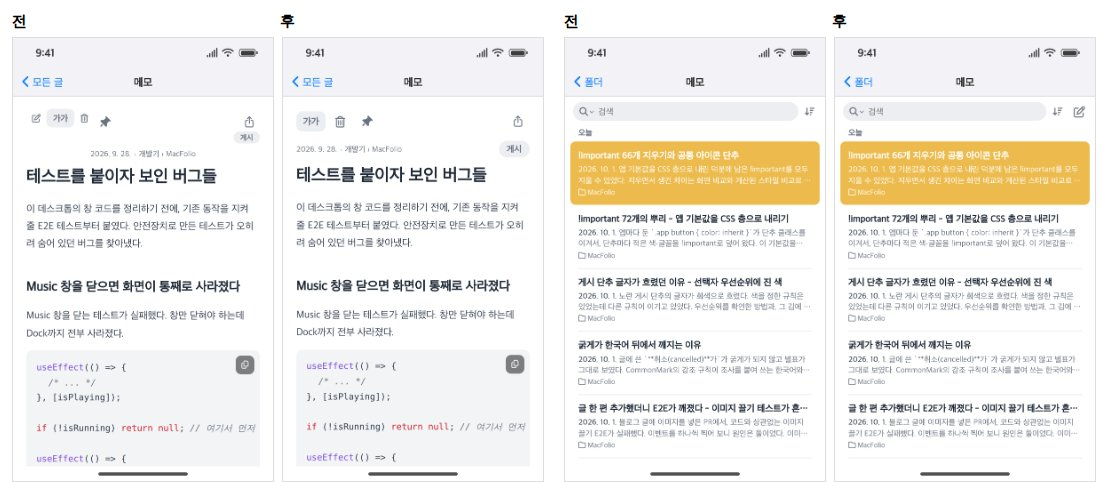
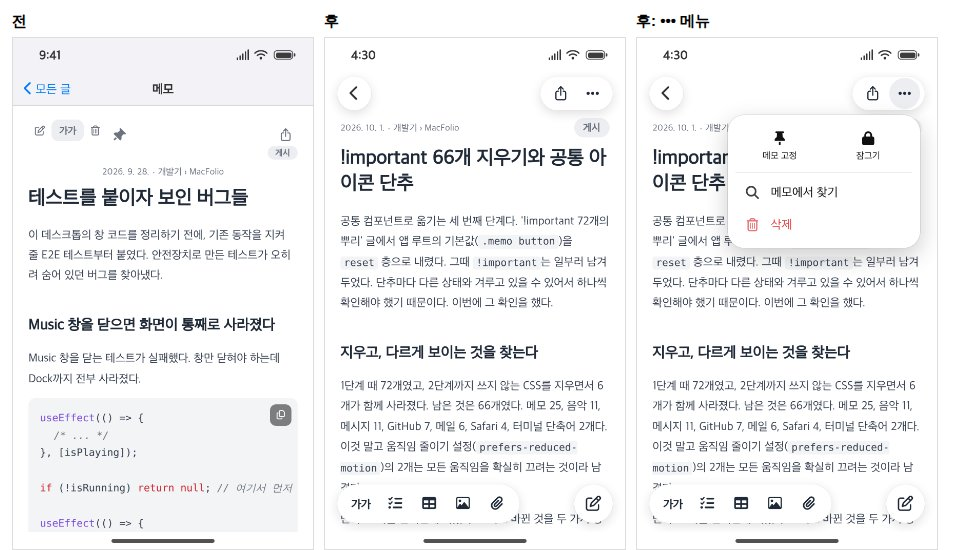
docs(memo): 태그·휴대폰 메모 글 고치기

diff --git a/apps/react/src/apps/memo/content/memo-mobile.md b/apps/react/src/apps/memo/content/memo-mobile.md
@@ -1,32 +1,35 @@
 ---
-title: 휴대폰의 메모 다듬기 - 도구 줄 맞추기와 좁은 표
+title: 휴대폰의 메모 다듬기 - iOS 메모처럼 떠 있는 단추와 좁은 표
 date: 2026-10-01
 category: 개발기/MacFolio
-summary: 휴대폰에서 메모를 열어 보니 본문 위 도구가 두 줄로 흩어져 있었다. 단추 크기와 줄을 맞추고, 글·폴더를 만드는 단추를 목록과 폴더 화면 위로 옮겼다. 좁은 화면의 표는 낱말 가운데서 줄을 바꾸지 않고 옆으로 밀리게 했다.
+summary: 휴대폰에서 메모 본문의 도구가 두 줄로 흩어져 있었다. iOS 메모처럼 제목 막대를 걷고 뒤로 가기·공유·더 보기는 위에, 글자 꾸밈 도구는 아래에 띄웠다. 좁은 화면의 표는 낱말 가운데서 줄을 바꾸지 않고 옆으로 밀리게 했다.
 ---
 
 메모 앱은 넓은 창을 기준으로 만들고, 좁아지면 한 칸씩 넘기는 화면(폴더 → 목록 → 본문)으로 바뀐다. 데스크톱에서 창을 줄여 가며 확인했는데, 휴대폰에서 관리자로 열어 보니 어색한 곳이 몇 군데 있었다.
 
-![도구 자리 전후](./images/memo-mobile-tools.jpg '왼쪽 둘: 본문 위 도구 줄 / 오른쪽 둘: 목록 위 새 메모')
+![본문 전후](./images/memo-mobile-tools.jpg '전: 제목 막대 아래 두 줄로 흩어진 도구 / 후: 떠 있는 단추, ••• 메뉴')
 
-## 본문 위 도구가 두 줄이었다
+## 본문은 iOS 메모처럼
 
-본문 위에는 새 메모, 서식(가가), 삭제, 고정, 공유가 있다. 고정과 공유에만 `font-size: 17px`과 위 여백이 붙어 있어서, 같은 줄인데 아이콘 크기와 높이가 제각각이었다. 게시 단추는 편집기 쪽의 날짜 줄에 들어 있는데, 좁은 편집기에서는 날짜 위의 따로 한 줄로 올라가 공유 아이콘 바로 밑에 혼자 떠 있었다.
+전에는 휴대폰 셸의 제목 막대("< 모든 글 | 메모") 아래에 새 메모, 서식(가가), 삭제, 고정, 공유가 한 줄로 있었다. 고정과 공유만 크기와 위 여백이 달라 들쭉날쭉했고, 게시 단추는 공유 아이콘 밑에 혼자 떠 있었다. 처음에는 단추 크기와 줄만 맞췄는데, 실제 iOS 메모를 옆에 두고 보니 구조가 달랐다. iOS 메모의 본문에는 제목 막대가 없다.
 
-- 도구 줄의 단추는 모두 같은 크기로 (36×34, 아이콘 17px). 서식, 삭제, 고정은 왼쪽, 공유는 오른쪽 끝
-- 휴대폰에서는 날짜·폴더를 왼쪽에, 저장 상태와 게시를 같은 줄 오른쪽에 둔다. 게시 단추는 손가락으로 누를 만하게 키웠다
+- **왼쪽 위**: 뒤로 가기 동그란 단추 하나
+- **오른쪽 위**: 공유와 •••를 담은 알약
+- **••• 메뉴**: 맨 위에 아이콘 줄(메모 고정, 잠그기), 그 아래 메모에서 찾기와 빨간 삭제
+- **아래 왼쪽**: 글자 꾸밈 알약 (가가, 체크리스트, 표, 이미지, 첨부)
+- **아래 오른쪽**: 새로 쓰기 동그란 단추
 
-같은 줄에 있는지는 E2E에서 단추들의 세로 가운데를 재서 확인한다. 서식 단추만 높이가 달라서(30px) 위쪽 끝이 아니라 가운데를 비교했다.
+제목 막대는 모든 앱이 함께 쓰는 휴대폰 셸의 것이라, 앱이 "이 화면에서는 막대를 띄워 달라"고 알리는 값(`floating`)을 하나 더했다. 앱이 뒤로 가기 글자를 바꿀 때 쓰던 `MobileNavigation`에 같이 넘긴다. 셸은 막대를 본문 위에 겹치고(`position: absolute`), 배경을 비우고, 뒤로 가기만 동그랗게 그린다. 뒤로 가기 글자("모든 글")는 화면 읽기 프로그램에만 남긴다.
 
-```ts
-const middles = await bar.locator('.ui-icon-button:visible').evaluateAll((buttons) =>
-	buttons.map((button) => {
-		const box = button.getBoundingClientRect();
-		return Math.round(box.top + box.height / 2);
-	})
-);
-expect(new Set(middles).size).toBe(1);
+```tsx
+<MobileNavigation backLabel={categoryName} onBack={() => setPane('list')} floating />
 ```
+
+••• 메뉴의 맨 위 아이콘 줄은 공용 메뉴(`Menu`)에 `{ row: [...] }` 항목을 더해서 만들었다. 데스크톱 메뉴도 같은 부품이라, 휴대폰에서는 `touch` 모양만 덧붙여 글자와 여백을 키운다.
+
+아래 알약의 가가를 누르면 서식 창이 단추 아래로 열려서 화면 밖으로 나갔다. 떠 있는 창을 단추 아래에 두는 함수(`placeBelow`)가 가로로만 화면 안으로 당겼기 때문이다. 아래로 넘치는데 위에 자리가 있으면 단추 위에 두게 고쳤다.
+
+처음에는 "휴대폰인가"를 셸이 내려 주는 Context로 알아내려 했는데, 단추가 하나도 그려지지 않았다. Context는 Provider의 **자식**에만 닿는다. 메모 컴포넌트는 창(`AppWindow`)을 그리는 쪽이라 Provider 바깥에 있다. 화면 폭으로 정하는 기존 훅(`useIsMobile`)을 썼다.
 
 ## 새 메모와 새로운 폴더의 자리
 

diff --git a/apps/react/src/apps/memo/content/memo-tags.md b/apps/react/src/apps/memo/content/memo-tags.md
@@ -7,7 +7,7 @@ summary: macOS 메모처럼 본문 아무 데나 #태그를 쓰면 태그가 되
 
 폴더는 글 하나가 한 곳에만 들어간다. 'CSS'와 '리팩터링'에 모두 걸치는 글은 폴더로는 묶을 수 없다. macOS 메모는 이럴 때 태그를 쓴다. 본문 아무 데나 `#태그`를 쓰면 그것이 태그가 되고, 사이드바 아래에 태그 묶음이 생긴다.
 
-![태그로 보기](./images/memo-tags.jpg '사이드바 아래의 태그 묶음. 누르면 그 태그의 글만, 본문의 태그도 누를 수 있다')
+![태그로 보기](./images/memo-tags.jpg '사이드바 아래의 태그 묶음. 채운 칩은 포함, 테두리·취소선은 제외. 둘 이상 고르면 모두/일부 포함을 고른다')
 
 ## 저장하지 않는다
 
@@ -42,10 +42,42 @@ export const TAG_PATTERN = /(^|[\s(（[])#([\p{L}\p{N}_-]+)/gu;
 
 태그는 세 곳에 보인다. 모두 같은 함수(`tagsInText`)로 찾는다.
 
-- **사이드바의 태그 묶음**: 모든 글의 본문에서 태그를 모아, 글이 많은 태그부터 늘어놓는다. 누르면 그 태그의 글만 보고, 한 번 더 누르면 모든 글로 돌아간다
+- **사이드바의 태그 묶음**: 모든 글의 본문에서 태그를 모아, 글이 많은 태그부터 늘어놓는다. 맨 앞의 '모든 태그'는 태그가 하나라도 있는 글이다
 - **읽기 화면**: remark 플러그인이 Markdown 문법 나무의 글자 마디를 쪼개 `<span class="memo-tag">`로 감싼다. 코드·링크 마디는 들어가지 않는다. 누르면 그 태그의 글만 본다
 - **편집기**: ProseMirror 꾸밈(decoration)으로 칠하기만 한다. 편집기에서 태그를 누르면 그 자리에 커서가 가야 하므로 다른 화면으로 넘어가지 않는다
 
-태그로 보는 화면은 폴더로 보는 화면을 그대로 쓴다. 경로 자리에 `'\u0000tag:' + 이름`을 넣는다. 폴더 이름에 쓸 수 없는 글자로 시작해서 사용자가 만든 폴더와 겹치지 않는다. 제목 자리에는 `#이름`이 보인다.
+## 포함, 제외, 미선택
+
+처음에는 태그를 누르면 그 태그의 글만, 한 번 더 누르면 모든 글로 돌아갔다. macOS 메모는 태그를 누를 때마다 상태가 셋을 돈다.
+
+| 누른 횟수 | 칩 모양               | 뜻                            |
+| --------- | --------------------- | ----------------------------- |
+| 0         | 회색                  | 고르지 않음                   |
+| 1         | 강조 색으로 채움      | 이 태그가 있는 글 (포함)      |
+| 2         | 강조 색 테두리·취소선 | 이 태그가 있는 글은 뺌 (제외) |
+| 3         | 회색                  | 다시 고르지 않음              |
+
+태그를 둘 이상 고르면 '태그' 옆에 "선택된 태그 중 모두 포함"이 생기고, 누르면 "일부 포함"으로 바꿀 수 있다. 포함한 태그가 모두 있어야 하는지(그리고), 하나라도 있으면 되는지(또는)다. 제외한 태그는 어느 쪽이든 그 태그가 있는 글을 뺀다. 목록 위에는 무엇으로 걸렀는지 적는다.
+
+- 하나만 포함: `선택된 태그(#디자인)와 일치하는 메모를 표시합니다.` 제목은 `#디자인`
+- 여럿: `3개의 선택된 태그와 모두 일치하는 메모를 표시합니다.` 제목은 `3개의 태그`
+- 제외만 있으면 안내 없이 제목만 `1개의 태그`
+
+고른 상태는 `{ 태그: 'include' | 'exclude' }`와 모두/일부 하나로 둔다. 글이 맞는지 보는 함수는 이것뿐이다.
+
+```ts
+export function matchesTags(postTags: string[], selection: TagSelection): boolean {
+	const has = (name: string) => postTags.some((tag) => sameTag(tag, name));
+	if (selection.all) return postTags.length > 0;
+	if (namesIn(selection, 'exclude').some(has)) return false;
+	const included = namesIn(selection, 'include');
+	if (included.length === 0) return true;
+	return selection.match === 'all' ? included.every(has) : included.some(has);
+}
+```
+
+태그로 보는 화면은 폴더로 보는 화면을 그대로 쓴다. 경로 자리에 `'\u0000tags'`를 넣고, 어떤 태그를 골랐는지는 따로 둔다. 폴더 이름에 쓸 수 없는 글자로 시작해서 사용자가 만든 폴더와 겹치지 않는다. 폴더를 고르면 태그 고르기는 풀린다.
+
+본문의 `#디자인`처럼 줄 처음에 쓴 태그는 목록의 미리보기에서 `#`이 지워져 "디자인"으로 보였다. 미리보기를 만들 때 Markdown 제목 표시(`# `)를 걷어 내는 규칙이 `#` 뒤 공백 없이도 걸렸기 때문이다. `#` 뒤에 공백이 있을 때만 걷게 고쳤다.
 
 #MacFolio #메모앱
